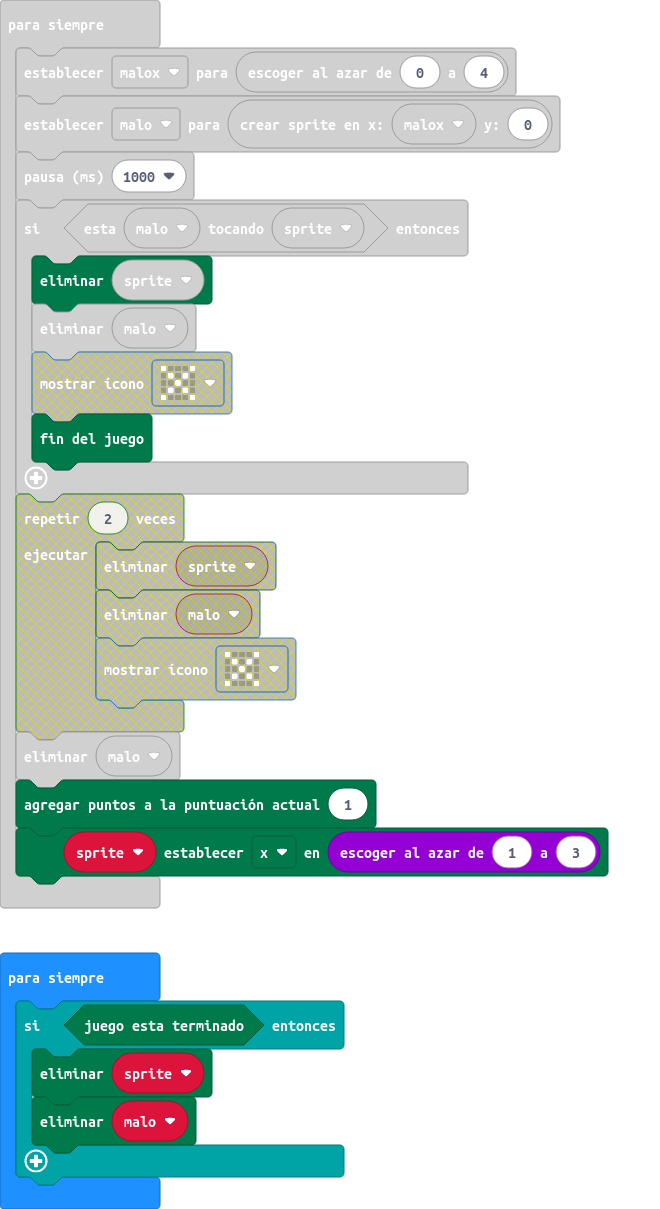
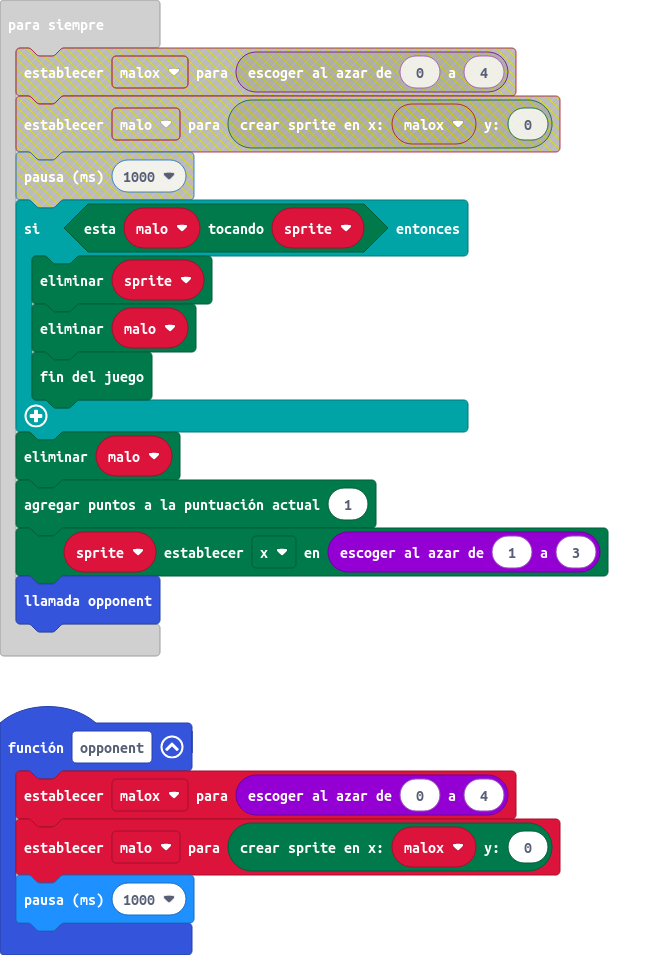
Actualizar main.blocks, main.ts

diff --git a/main.ts b/main.ts
@@ -4,15 +4,18 @@ input.onButtonPressed(Button.A, function () {
 input.onButtonPressed(Button.B, function () {
     sprite.change(LedSpriteProperty.X, 1)
 })
+function opponent () {
+    malox = randint(0, 4)
+    malo = game.createSprite(malox, 0)
+    basic.pause(1000)
+}
 let malo: game.LedSprite = null
 let malox = 0
 let sprite: game.LedSprite = null
 basic.clearScreen()
 sprite = game.createSprite(2, 4)
 basic.forever(function () {
-    malox = randint(0, 4)
-    malo = game.createSprite(malox, 0)
-    basic.pause(1000)
+    opponent()
     if (malo.isTouching(sprite)) {
         sprite.delete()
         malo.delete()
@@ -23,18 +26,18 @@ basic.forever(function () {
     sprite.set(LedSpriteProperty.X, randint(1, 3))
 })
 basic.forever(function () {
+    if (game.isGameOver()) {
+        sprite.delete()
+        malo.delete()
+    }
+})
+basic.forever(function () {
     if (sprite.get(LedSpriteProperty.X) == 4) {
         sprite.set(LedSpriteProperty.X, 0)
         basic.pause(1000)
     } else if (sprite.get(LedSpriteProperty.X) == 0) {
         sprite.set(LedSpriteProperty.X, 4)
         basic.pause(1000)
-    }
-})
-basic.forever(function () {
-    if (game.isGameOver()) {
-        sprite.delete()
-        malo.delete()
     }
 })
 loops.everyInterval(200, function () {
